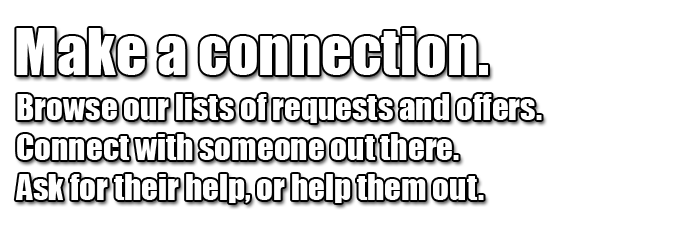
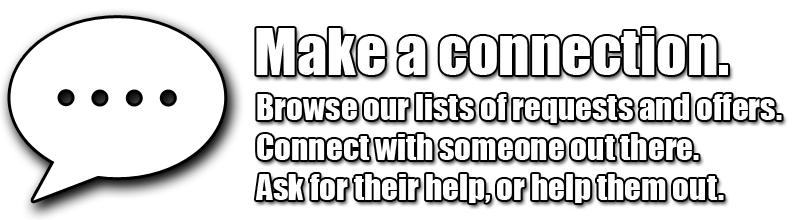
Revamp of header.

diff --git a/app/assets/stylesheets/custom.css.scss b/app/assets/stylesheets/custom.css.scss
@@ -18,9 +18,69 @@ html {
   background:#f8bd9a url('Concept2.jpg') no-repeat left top;
 }
 
-.navbar-inner {
-  padding-top: -500px;
-  margin-top: -60px;
+ /* header */
+
+.navbar {
+  .navbar-inner {
+    vertical-align: middle;
+    border-top: 1px solid #000000;
+    border-bottom: 1px solid #000000;
+    height: 45px;
+    background-color: #c0b2a7;
+    background-image: none;
+
+    .dropdown .dropdown-toggle {
+      height: 23px;
+    }
+
+    .dropdown .dropdown-menu::before,
+    .dropdown .dropdown-menu::after {
+      border: none;
+      content: none;
+    }
+
+    .dropdown .dropdown-menu {
+      border: 1px solid #000000;
+      background-color: #c0b2a7;
+      .divider {
+        border: black;
+        background-color: black;
+      }
+    }
+  }
+  .border{
+    border-right: 1px solid black;
+    height: 43px;;
+  }
+}
+
+#header_items {
+  padding-top: 1px;
+  color: #ffffff;
+
+  a {
+    color: #ffffff;
+    &:hover {
+      color: #333333;
+    }
+  }
+
+  .header_text {
+    float: right;
+  }
+
+  .header_image {
+    float: left;;
+  }
+
+
+}
+
+
+#logo {
+  float: left;
+  margin-left: 10px;
+  padding-top: 5px;
 }
 
 section {
@@ -44,11 +104,11 @@ textarea {
 }
 
 .ThisIsWhere {
-  margin: 0 100px 100px 150px;
+  margin: 0 100px 100px 110px;
 }
 
 .MakeAConnect {
-  margin: 100px 350px 70px 250px;
+  margin: 100px 350px 70px 190px;
 }
 
 .LetsTalk {
@@ -85,24 +145,6 @@ p {
   line-height: 1.7em;
 }
 
-/* header */
-
-#logo {
-  float: left;
-  margin-right: 10px;
-  font-size: 1.7em;
-  color: #fff;
-  text-transform: uppercase;
-  letter-spacing: -1px;
-  padding-top: 9px;
-  font-weight: bold;
-  line-height: 1;
-  &:hover {
-    color: #fff;
-    text-decoration: none;
-  }
-}
-
 /* footer */
 
 footer {
@@ -122,10 +164,6 @@ footer {
   ul {
     float: right;
     list-style: none;
-    li {
-      float: left;
-      margin-left: 10px;
-    }
   }
 }
 
@@ -219,7 +257,6 @@ input {
   margin: 0;
   li {
     overflow: auto;
-    padding: 10px 0;
     border-top: 1px solid $grayLighter;
     &:last-child {
       border-bottom: 1px solid $grayLighter;
